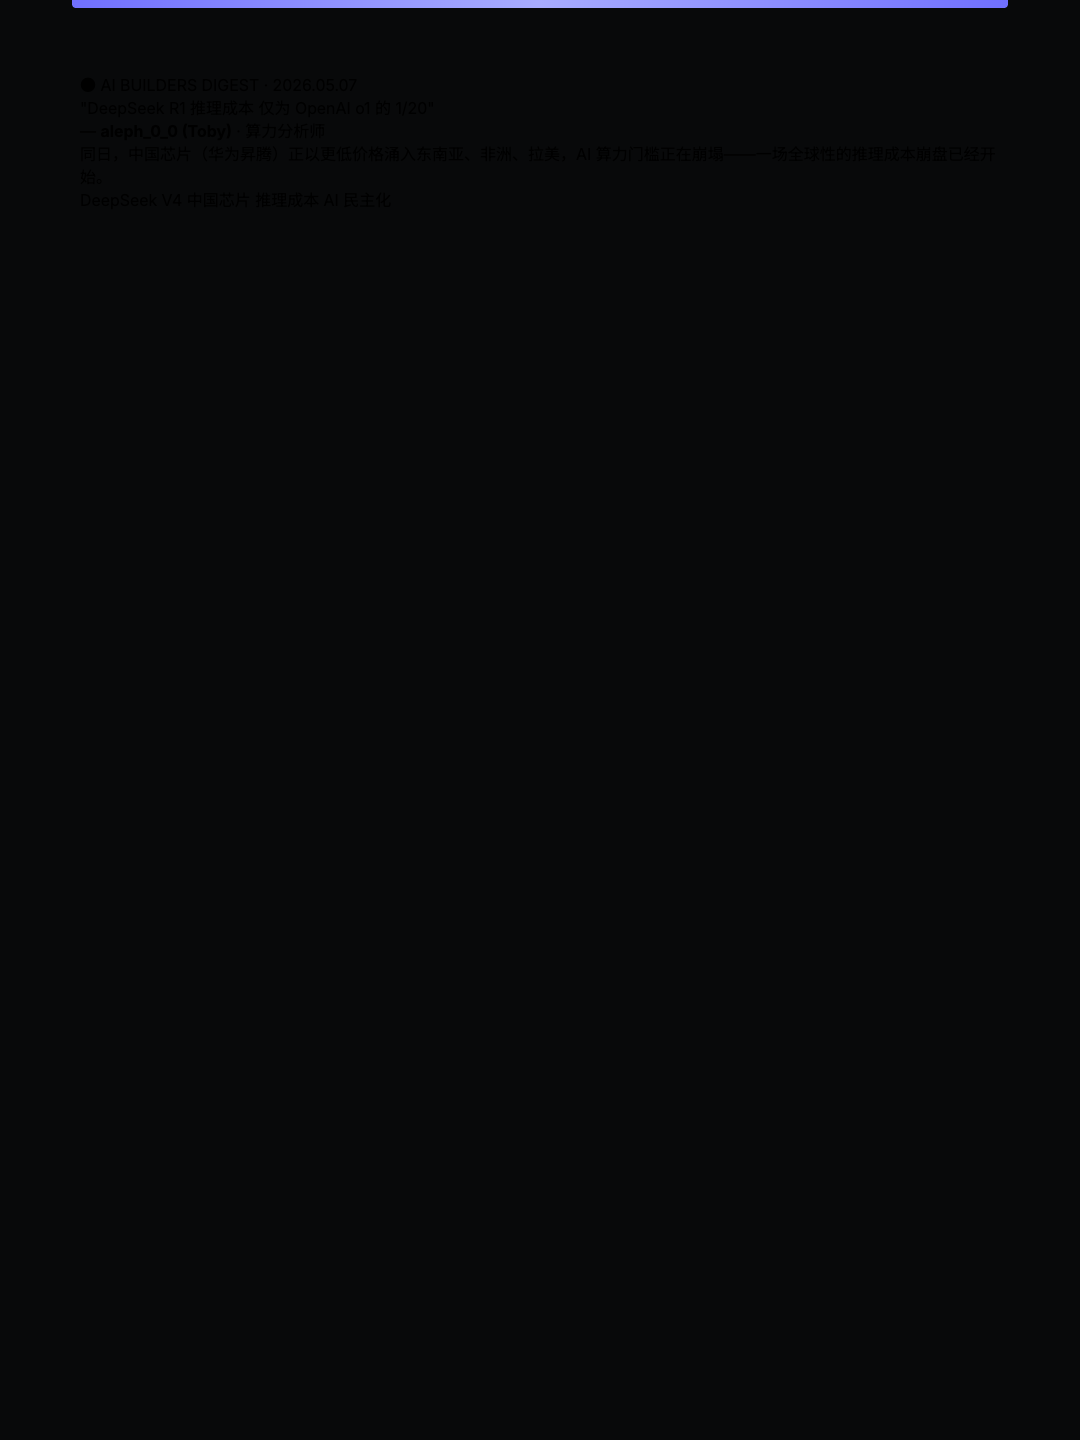
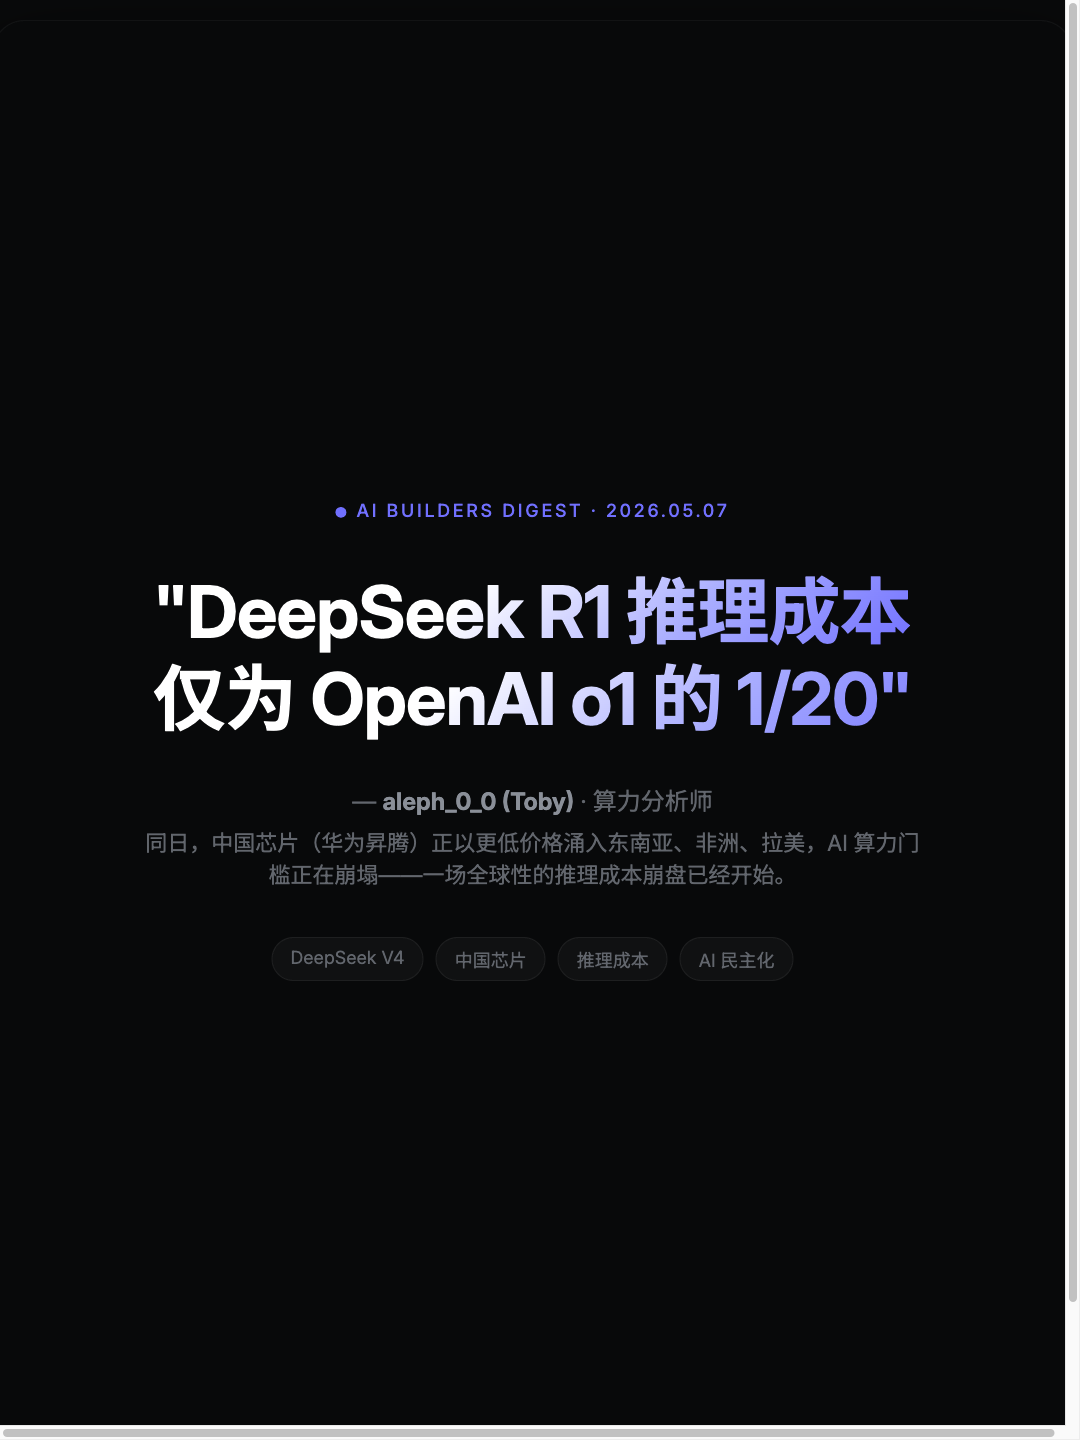
fix: 0507 HTML CSS syntax error — nav-btn missing closing brace broke all styles
- .nav-btn block didn't close before .pq-context, causing CSS parser to invalidate entire stylesheet
- All text fell back to black-on-black (#08090a bg + rgb(0,0,0) text) = invisible
- Fixed: added proper closing brace and missing nav-btn color/font declarations
- Re-screenshotted all 3 pages with correct styling

diff --git a/docs/20260507.html b/docs/20260507.html
@@ -65,7 +65,7 @@
     border-radius: 50%;
     border: 1px solid rgba(255,255,255,0.08);
     background: rgba(255,255,255,0.02);
-.pq-context {
+    color: #8a8f98;
     font-size: 22px;
     cursor: pointer;
     transition: all 0.15s;
